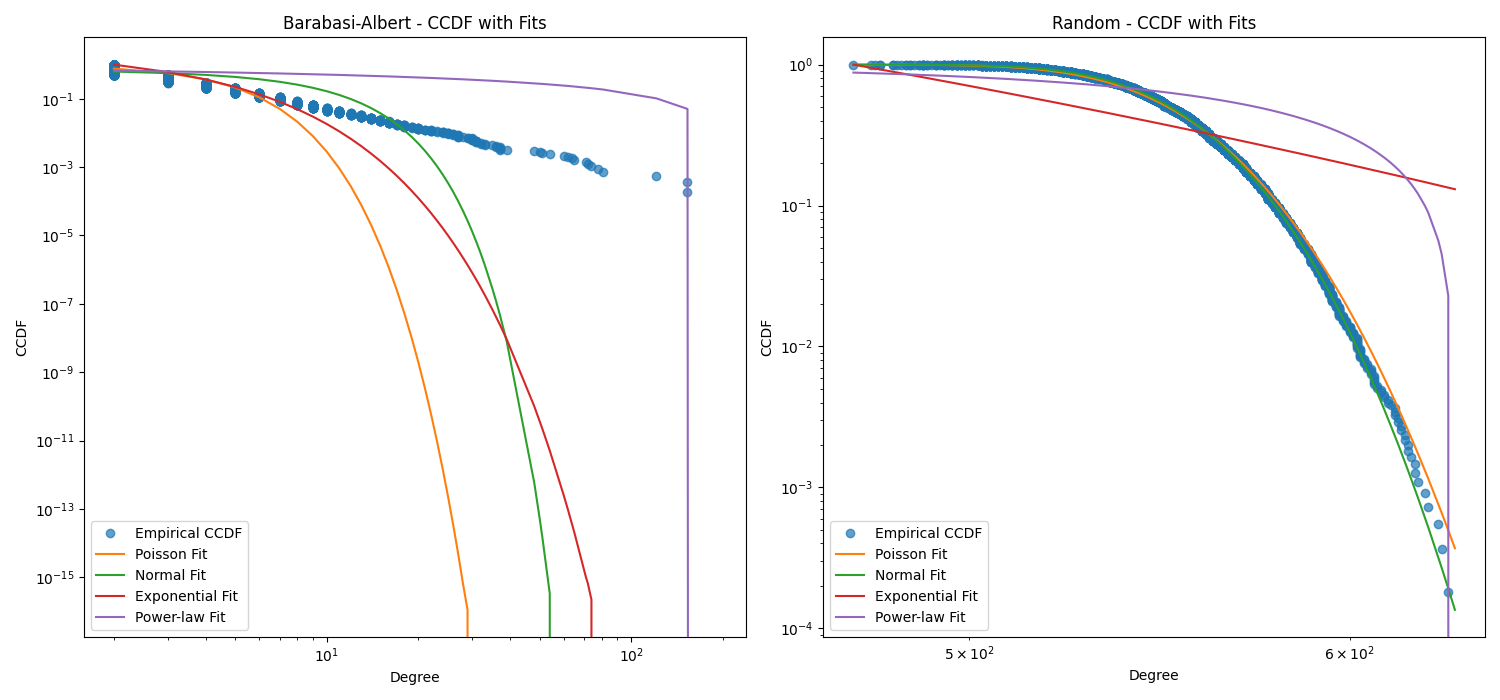
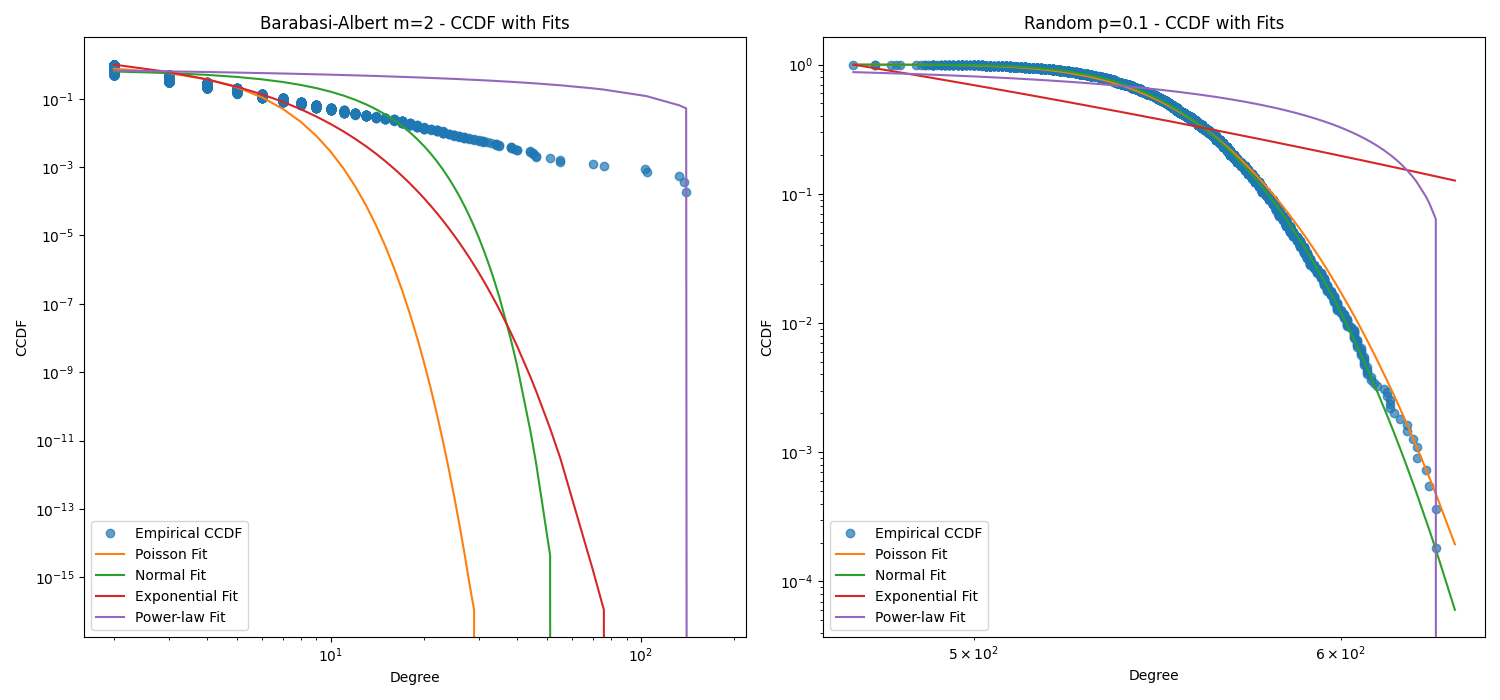
refactor(task9): clean up

diff --git a/tasks/task9.py b/tasks/task9.py
@@ -102,7 +102,6 @@ def plot_linear_and_log_degree_distributions(G_BA, G_RND, save_path):
     RND_degree_counts = np.bincount(RND_degrees)
     RND_degree_counts = RND_degree_counts[RND_degree_counts > 0]
 
-    # create 2x2 subplots
     fig, axes = plt.subplots(2, 2, figsize=(15, 15))
 
     # plot degree distribution for Barabasi-Albert graph
@@ -151,21 +150,25 @@ def plot_cdf_ccdf(G_BA, G_RND, save_path):
     # plot four subplots in 2 rows and 2 columns
     fig, axes = plt.subplots(2, 2, figsize=(15, 15))
 
-    # plot CDF for Barabasi-Albert graph
     axes[0, 0].plot(BA_degrees, cdf_BA, 'b-', marker='o')
     axes[0, 0].set_title('CDF - Barabasi-Albert')
+    axes[0, 0].set_xlabel('Degree')
+    axes[0, 0].set_ylabel('CDF')
 
-    # plot CCDF for Barabasi-Albert graph
     axes[0, 1].plot(BA_degrees, ccdf_BA, 'b-', marker='o')
     axes[0, 1].set_title('CCDF - Barabasi-Albert')
+    axes[0, 1].set_xlabel('Degree')
+    axes[0, 1].set_ylabel('CCDF')
 
-    # plot CDF for Random graph
     axes[1, 0].plot(RND_degrees, cdf_RND, 'r-', marker='o')
     axes[1, 0].set_title('CDF - Random')
+    axes[1, 0].set_xlabel('Degree')
+    axes[1, 0].set_ylabel('CDF')
 
-    # plot CCDF for Random graph
     axes[1, 1].plot(RND_degrees, ccdf_RND, 'r-', marker='o')
     axes[1, 1].set_title('CCDF - Random')
+    axes[1, 1].set_xlabel('Degree')
+    axes[1, 1].set_ylabel('CCDF')
 
     plt.tight_layout()
 
@@ -176,35 +179,22 @@ def plot_cdf_ccdf(G_BA, G_RND, save_path):
 
 
 def fit_and_plot_ccdf(graph, title, subplot_index):
-    """
-    Fit and plot CCDF with Poisson, Normal, Exponential, and Power-law fits.
-
-    Args:
-        graph: NetworkX graph object.
-        title: Title for the plot.
-        subplot_index: Subplot index for positioning.
-    """
-    # Compute degrees and sort them
-    degrees = np.array([d for _, d in graph.degree()])
-    sorted_degrees = np.sort(degrees)
+    degrees = np.array([d for _, d in graph.degree()])  # Get degrees of all nodes
+    sorted_degrees = np.sort(degrees)  # and sort them
 
     # Calculate CCDF
     ccdf = 1 - (np.arange(1, len(sorted_degrees) + 1) / len(sorted_degrees))
 
     # Fit distributions
-    # Poisson
     lambda_poisson = np.mean(degrees)
     poisson_ccdf = 1 - stats.poisson.cdf(sorted_degrees, mu=lambda_poisson)
 
-    # Normal
     mu_normal, sigma_normal = stats.norm.fit(degrees)
     normal_ccdf = 1 - stats.norm.cdf(sorted_degrees, loc=mu_normal, scale=sigma_normal)
 
-    # Exponential
     loc_expon, scale_expon = stats.expon.fit(degrees)
     expon_ccdf = 1 - stats.expon.cdf(sorted_degrees, loc=loc_expon, scale=scale_expon)
 
-    # Power-law
     a_power, loc_power, scale_power = stats.powerlaw.fit(degrees, floc=0)
     power_ccdf = 1 - stats.powerlaw.cdf(sorted_degrees, a=a_power, loc=loc_power, scale=scale_power)
 
@@ -247,12 +237,12 @@ def main():
     G_RND = nx.Graph(random_graph_edges)
     print_graph_info(G_RND, "Random")
 
-    # plot_linear_and_log_degree_distributions(G_BA, G_RND, save_path)
-    # plot_cdf_ccdf(G_BA, G_RND, save_path)
+    plot_linear_and_log_degree_distributions(G_BA, G_RND, save_path)
+    plot_cdf_ccdf(G_BA, G_RND, save_path)
 
     plt.figure(figsize=(15, 7))
-    fit_and_plot_ccdf(G_BA, "Barabasi-Albert", 1)
-    fit_and_plot_ccdf(G_RND, "Random", 2)
+    fit_and_plot_ccdf(G_BA, f"Barabasi-Albert m={m}", 1)
+    fit_and_plot_ccdf(G_RND, f"Random p={p}", 2)
     plt.tight_layout()
     plt.savefig(os.path.join(save_path, 'ccdf_with_fits.png'))
 
